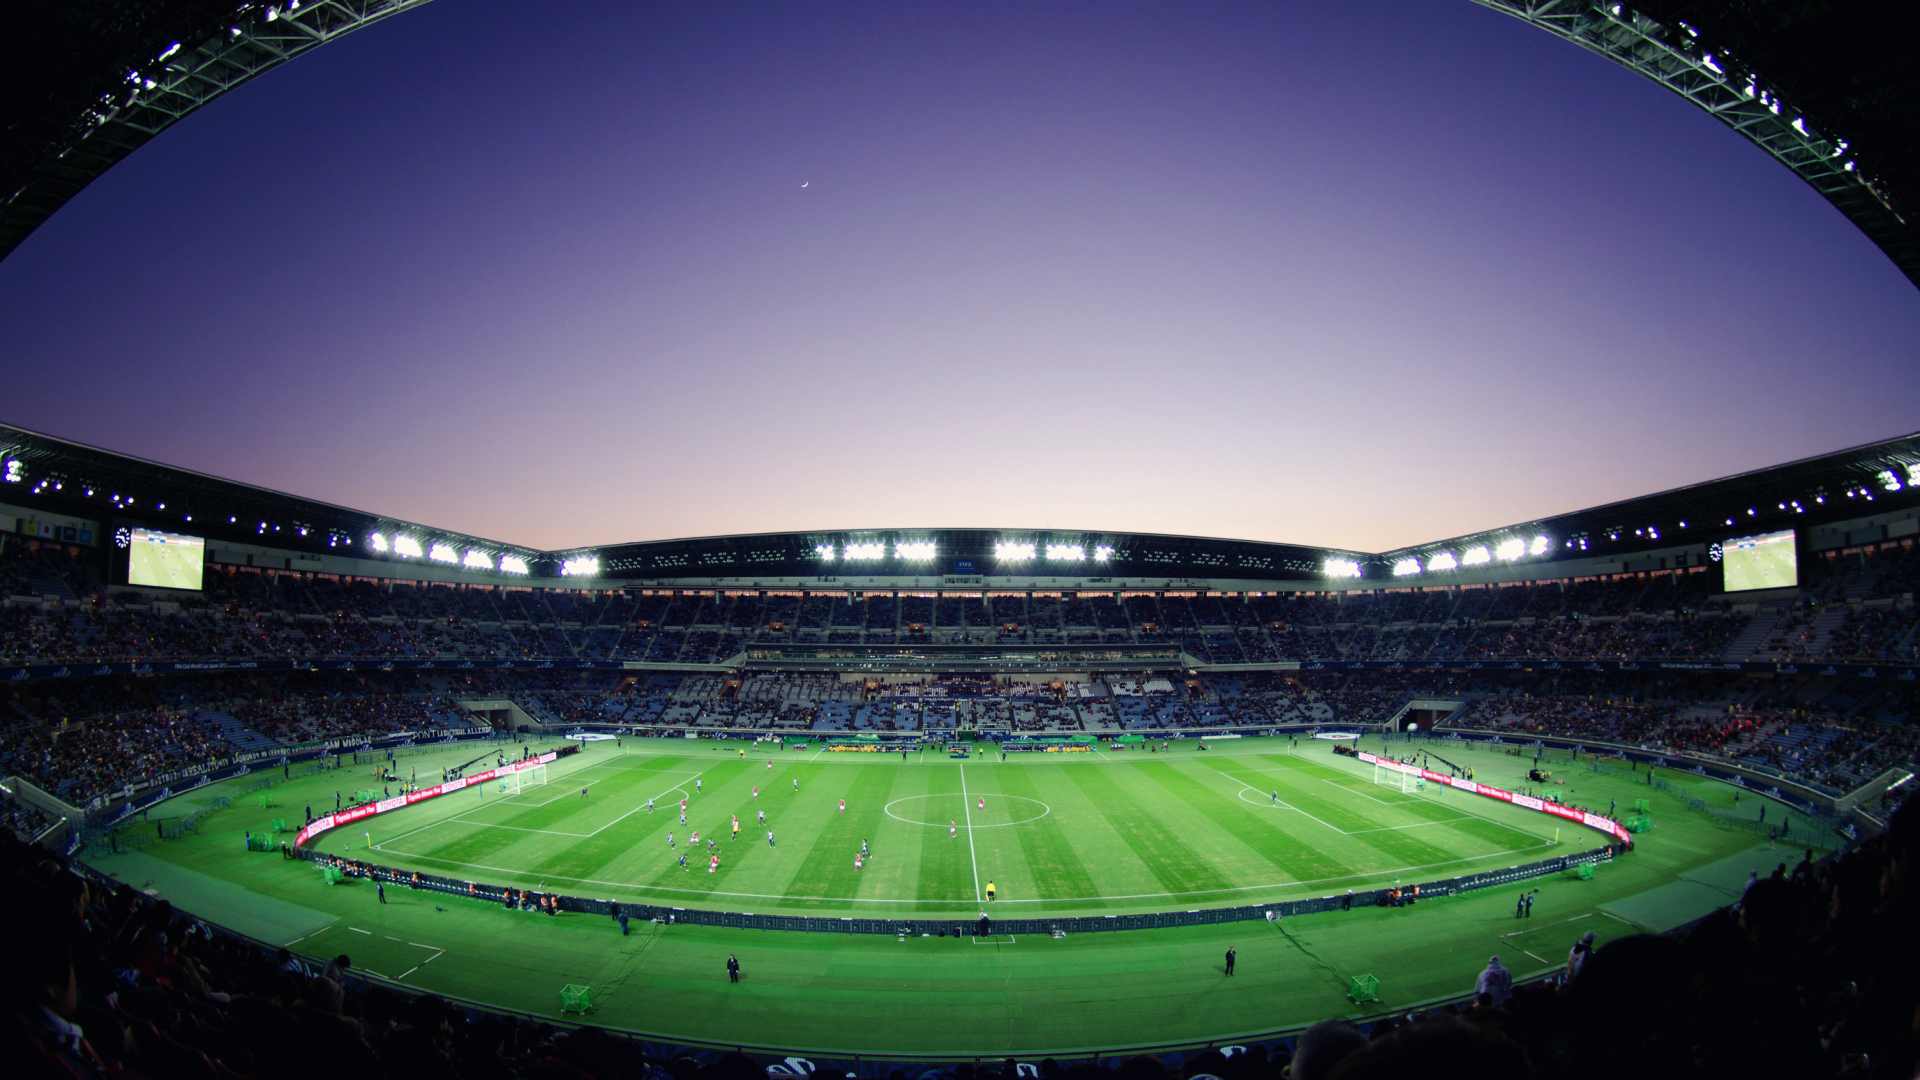
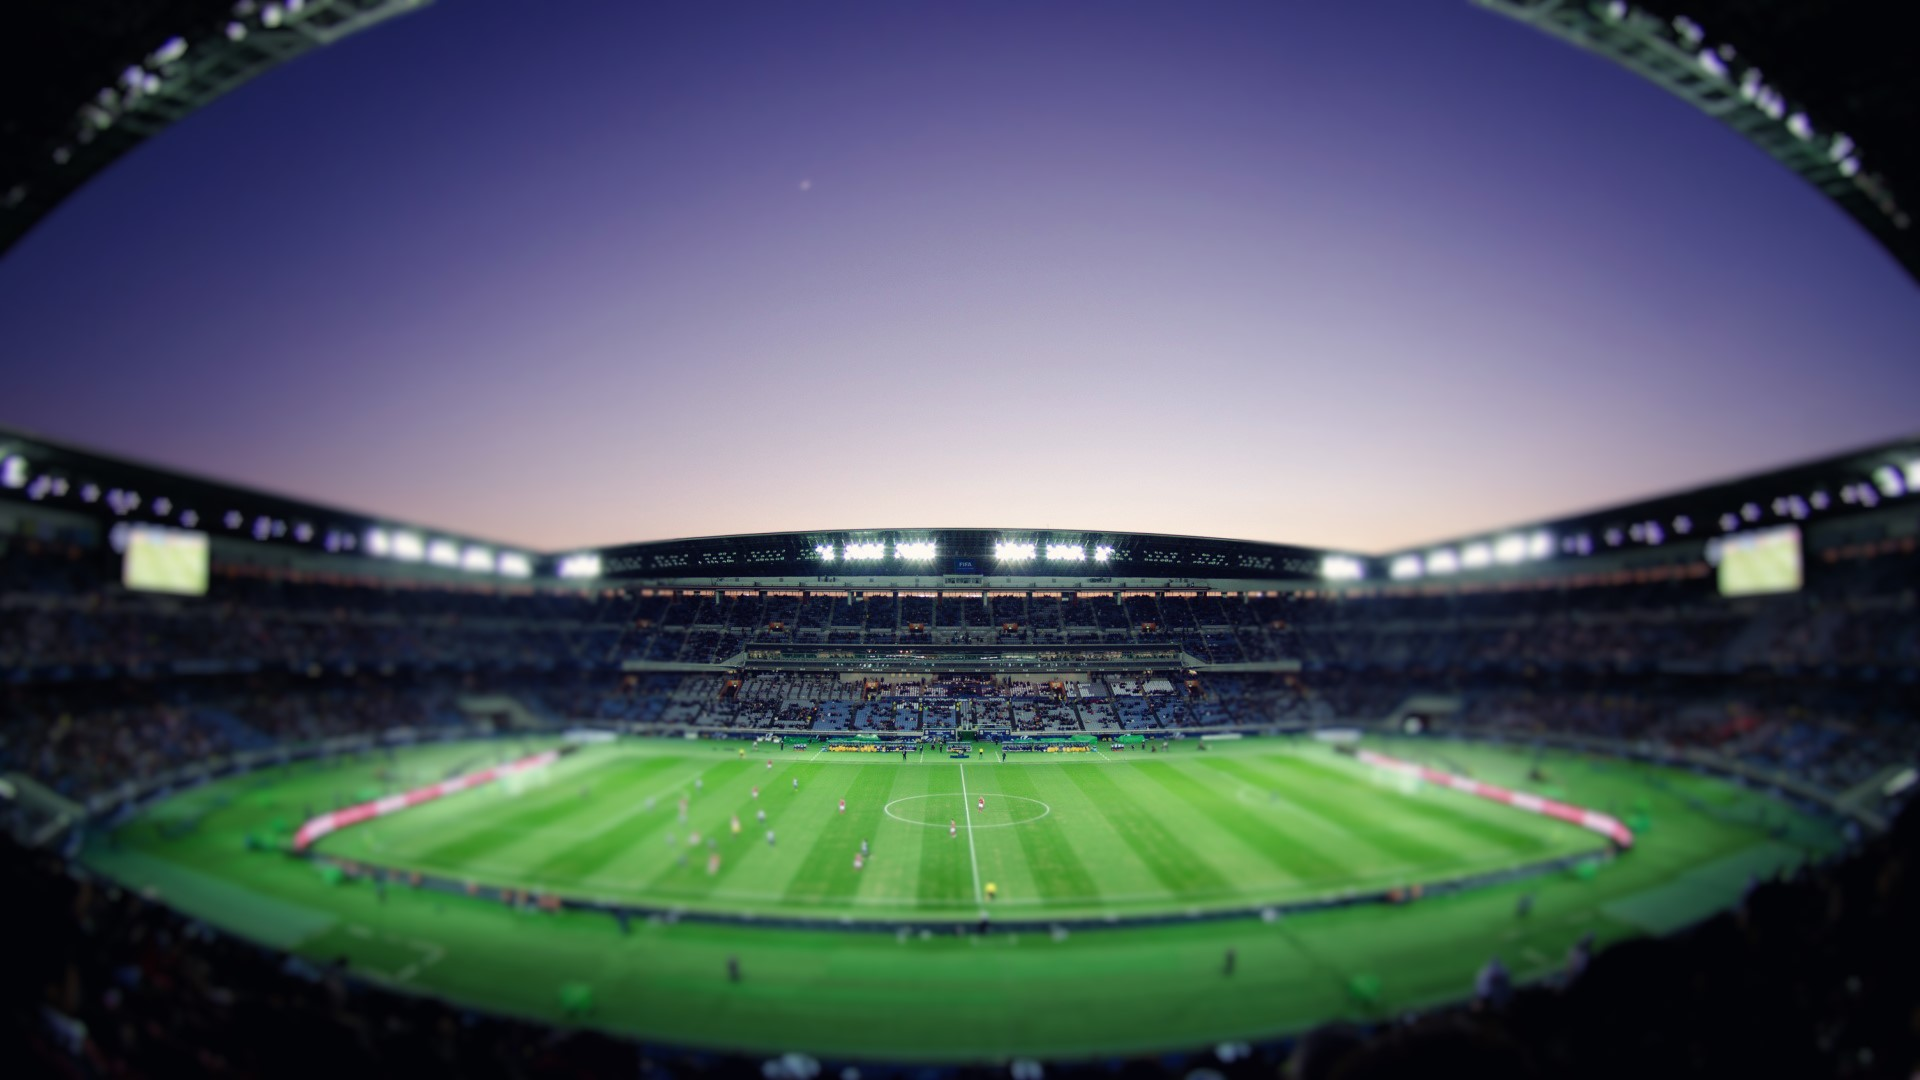
default-admin in progress

diff --git a/fut-all/fut-all/Styles/verticalmenu.css b/fut-all/fut-all/Styles/verticalmenu.css
@@ -1,0 +1,111 @@
+@import url(http://fonts.googleapis.com/css?family=Raleway:400,200);
+.vermenu,
+.vermenu ul,
+.vermenu ul li,
+.vermenu ul li a {
+  margin: 0;
+  padding: 0;
+  border: 0;
+  list-style: none;
+  line-height: 1;
+  display: block;
+  position: relative;
+  -webkit-box-sizing: border-box;
+  -moz-box-sizing: border-box;
+  box-sizing: border-box;
+}
+.vermenu {
+  width: 220px;
+  font-family: Raleway, sans-serif;
+  color: #ffffff;
+}
+.vermenu ul ul {
+  display: none;
+}
+.vermenu > ul > li.active > ul {
+  display: block;
+}
+.align-right {
+  float: right;
+}
+.vermenu > ul > li > a {
+  padding: 16px 22px;
+  cursor: pointer;
+  z-index: 2;
+  font-size: 16px;
+  text-decoration: none;
+  color: #ffffff;
+  background: #3ab4a6;
+  -webkit-transition: color .2s ease;
+  -o-transition: color .2s ease;
+  transition: color .2s ease;
+}
+.vermenu > ul > li > a:hover {
+  color: #d8f3f0;
+}
+.vermenu ul > li.has-sub > a:after {
+  position: absolute;
+  right: 26px;
+  top: 19px;
+  z-index: 5;
+  display: block;
+  height: 10px;
+  width: 2px;
+  background: #ffffff;
+  content: "";
+  -webkit-transition: all 0.1s ease-out;
+  -moz-transition: all 0.1s ease-out;
+  -ms-transition: all 0.1s ease-out;
+  -o-transition: all 0.1s ease-out;
+  transition: all 0.1s ease-out;
+}
+.vermenu ul > li.has-sub > a:before {
+  position: absolute;
+  right: 22px;
+  top: 23px;
+  display: block;
+  width: 10px;
+  height: 2px;
+  background: #ffffff;
+  content: "";
+  -webkit-transition: all 0.1s ease-out;
+  -moz-transition: all 0.1s ease-out;
+  -ms-transition: all 0.1s ease-out;
+  -o-transition: all 0.1s ease-out;
+  transition: all 0.1s ease-out;
+}
+.vermenu ul > li.has-sub.open > a:after,
+.vermenu ul > li.has-sub.open > a:before {
+  -webkit-transform: rotate(45deg);
+  -moz-transform: rotate(45deg);
+  -ms-transform: rotate(45deg);
+  -o-transform: rotate(45deg);
+  transform: rotate(45deg);
+}
+.vermenu ul ul li a {
+  padding: 14px 22px;
+  cursor: pointer;
+  z-index: 2;
+  font-size: 14px;
+  text-decoration: none;
+  color: #dddddd;
+  background: #49505a;
+  -webkit-transition: color .2s ease;
+  -o-transition: color .2s ease;
+  transition: color .2s ease;
+}
+.vermenu ul ul ul li a {
+  padding-left: 32px;
+}
+.vermenu ul ul li a:hover {
+  color: #ffffff;
+}
+.vermenu ul ul > li.has-sub > a:after {
+  top: 16px;
+  right: 26px;
+  background: #dddddd;
+}
+.vermenu ul ul > li.has-sub > a:before {
+  top: 20px;
+  background: #dddddd;
+}

diff --git a/fut-all/fut-all/Styles/navbar.css b/fut-all/fut-all/Styles/navbar.css
@@ -1,0 +1,98 @@
+@import url(http://fonts.googleapis.com/css?family=Raleway);
+.navbar,
+.navbar ul,
+.navbar ul li,
+.navbar ul li a {
+  margin: 0;
+  padding: 0;
+  border: 0;
+    
+  list-style: none;
+  line-height: 1;
+  display: block;
+  position: relative;
+  -webkit-box-sizing: border-box;
+  -moz-box-sizing: border-box;
+  box-sizing: border-box;
+}
+.navbar:after,
+.navbar > ul:after {
+  content: ".";
+  display: block;
+  clear: both;
+  visibility: hidden;
+  line-height: 0;
+  height: 0;
+}
+.navbar {
+  width: auto;
+  border-bottom: 3px solid #47c9af;
+  font-family:'Century Gothic';
+  line-height: 1;
+}
+.navbar ul {
+  background: #ffffff;
+}
+.navbar > ul > li {
+  float: right;
+}
+.navbar.align-center > ul {
+  font-size: 0;
+  text-align: right;
+}
+.navbar.align-center > ul > li {
+  display: inline-block;
+  float: none;
+}
+.navbar.align-right > ul > li {
+  float: right;
+}
+.navbar.align-right > ul > li > a {
+  margin-right: 0;
+  margin-left: -4px;
+}
+.navbar > ul > li > a {
+  z-index: 2;
+  padding: 18px 25px 12px 25px;
+  font-size: 15px;
+  font-weight: 400;
+  text-decoration: none;
+  color: #444444;
+  -webkit-transition: all .2s ease;
+  -moz-transition: all .2s ease;
+  -ms-transition: all .2s ease;
+  -o-transition: all .2s ease;
+  transition: all .2s ease;
+  margin-right: -4px;
+}
+.navbar > ul > li.active > a,
+.navbar > ul > li:hover > a,
+.navbar > ul > li > a:hover {
+  color: #ffffff;
+}
+.navbar > ul > li > a:after {
+  position: absolute;
+  left: 0;
+  bottom: 0;
+  right: 0;
+  z-index: -1;
+  width: 100%;
+  height: 120%;
+  border-top-left-radius: 8px;
+  border-top-right-radius: 8px;
+  content: "";
+  -webkit-transition: all .2s ease;
+  -o-transition: all .2s ease;
+  transition: all .2s ease;
+  -webkit-transform: perspective(5px) rotateX(2deg);
+  -webkit-transform-origin: bottom;
+  -moz-transform: perspective(5px) rotateX(2deg);
+  -moz-transform-origin: bottom;
+  transform: perspective(5px) rotateX(2deg);
+  transform-origin: bottom;
+}
+.navbar > ul > li.active > a:after,
+.navbar > ul > li:hover > a:after,
+.navbar > ul > li > a:hover:after {
+  background: #47c9af;
+}

diff --git a/fut-all/fut-all/Styles/General.css b/fut-all/fut-all/Styles/General.css
@@ -2,13 +2,27 @@
   -webkit-border-radius: 8;
   -moz-border-radius: 8;
   border-radius: 8px;
-  font-family:'Myriad Pro';
+  font-family:'Century Gothic';
   color: #21A499;
   font-size: 16px;
   background: #ffffff;
   padding: 8px 16px 8px 16px;
   border: solid #21A499 2px;
   text-decoration: none;
+}
+
+.ddl {
+  -webkit-border-radius: 8;
+  -moz-border-radius: 8;
+  border-radius: 8px;
+  font-family:'Century Gothic';
+  color: #21A499;
+  font-size: 14px;
+  background: #ffffff;
+  border-width: 2px;
+  border-color: #21A499;
+  width: 217px;
+  height: 40px;
 }
 
 .btn:hover {
@@ -34,24 +48,27 @@
 }
 
 .lblFont{
-    font-family:'Myriad Pro';
+    font-family: 'Century Gothic';
     color:#21A499;
 }
 
 .lblFont2{
-    font-family:'Myriad Pro';
+    font-family:'Century Gothic';
     color:#92C573;
 }
 
 .txbClass{
-    font-size:16px; 
+    font-size:14px; 
     border-style:solid;
-    height:20px; 
+    height:20px;
+    width: 200px; 
     padding:8px; 
     border-radius:8px; 
-    border-width:2px; 
+    border-width:2px;
     border-color:#21a499; 
-    color:#878787;  }
+    color:#878787;
+    font-family:'Century Gothic';
+}
  
 .txbClass:focus { 
     outline:none

diff --git a/fut-all/fut-all/Styles/Default.css b/fut-all/fut-all/Styles/Default.css
@@ -1,5 +1,5 @@
 body {
-    background-image:url(/Images/background4.png) ; 
+    background-image:url(/Images/background3.png) ; 
     background-position: center center;
     background-repeat: no-repeat;
     background-attachment: fixed;

diff --git a/fut-all/fut-all/Styles/AdminStyles.css b/fut-all/fut-all/Styles/AdminStyles.css
@@ -7,3 +7,4 @@
     -moz-background-size: cover;
     -o-background-size: cover;    
 }
+}

diff --git a/fut-all/fut-all/Admin.aspx.designer.cs b/fut-all/fut-all/Admin.aspx.designer.cs
@@ -22,13 +22,22 @@ namespace fut_all {
         protected global::System.Web.UI.HtmlControls.HtmlForm form1;
         
         /// <summary>
-        /// Control lblContinents.
+        /// Control Label1.
         /// </summary>
         /// <remarks>
         /// Campo generado automáticamente.
         /// Para modificarlo, mueva la declaración del campo del archivo del diseñador al archivo de código subyacente.
         /// </remarks>
-        protected global::System.Web.UI.WebControls.Label lblContinents;
+        protected global::System.Web.UI.WebControls.Label Label1;
+        
+        /// <summary>
+        /// Control Label2.
+        /// </summary>
+        /// <remarks>
+        /// Campo generado automáticamente.
+        /// Para modificarlo, mueva la declaración del campo del archivo del diseñador al archivo de código subyacente.
+        /// </remarks>
+        protected global::System.Web.UI.WebControls.Label Label2;
         
         /// <summary>
         /// Control txbContinent.
@@ -47,5 +56,41 @@ namespace fut_all {
         /// Para modificarlo, mueva la declaración del campo del archivo del diseñador al archivo de código subyacente.
         /// </remarks>
         protected global::System.Web.UI.WebControls.Button btnAddcontinent;
+        
+        /// <summary>
+        /// Control Label3.
+        /// </summary>
+        /// <remarks>
+        /// Campo generado automáticamente.
+        /// Para modificarlo, mueva la declaración del campo del archivo del diseñador al archivo de código subyacente.
+        /// </remarks>
+        protected global::System.Web.UI.WebControls.Label Label3;
+        
+        /// <summary>
+        /// Control ddlContinents.
+        /// </summary>
+        /// <remarks>
+        /// Campo generado automáticamente.
+        /// Para modificarlo, mueva la declaración del campo del archivo del diseñador al archivo de código subyacente.
+        /// </remarks>
+        protected global::System.Web.UI.WebControls.DropDownList ddlContinents;
+        
+        /// <summary>
+        /// Control txtConfederation.
+        /// </summary>
+        /// <remarks>
+        /// Campo generado automáticamente.
+        /// Para modificarlo, mueva la declaración del campo del archivo del diseñador al archivo de código subyacente.
+        /// </remarks>
+        protected global::System.Web.UI.WebControls.TextBox txtConfederation;
+        
+        /// <summary>
+        /// Control btnAddConfederation.
+        /// </summary>
+        /// <remarks>
+        /// Campo generado automáticamente.
+        /// Para modificarlo, mueva la declaración del campo del archivo del diseñador al archivo de código subyacente.
+        /// </remarks>
+        protected global::System.Web.UI.WebControls.Button btnAddConfederation;
     }
 }

diff --git a/fut-all/fut-all/Admin.aspx.cs b/fut-all/fut-all/Admin.aspx.cs
@@ -11,7 +11,11 @@ namespace fut_all
     {
         protected void Page_Load(object sender, EventArgs e)
         {
-
+            if (!IsPostBack)
+            {
+                ddlContinents.Items.Add("-Select Continent-");
+            }
+            
         }
     }
 }
